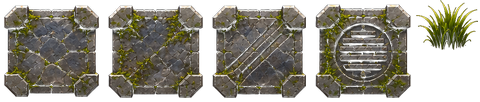
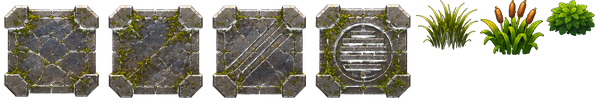
Swamp2: add TASK-001 v4 tufts 07 (cattails) and 08 (leafy)
Claude-Session: https://claude.ai/code/session_013R86rVRDV7uvtfdFLL6VJw

diff --git a/sw.js b/sw.js
@@ -1,6 +1,6 @@
-/* «Две базы» offline cache, version 2026.11.08-1321. A new version of this file makes phones fetch the new game;
+/* «Две базы» offline cache, version 2026.11.08-1355. A new version of this file makes phones fetch the new game;
    files whose content didn't change are copied from the old cache instead of downloaded again. */
-const V='dvebazy-2026.11.08-1321',H={"base_blue.webp": "3fa30d2184", "base_red.webp": "7dbdedfcd1", "crater.webp": "f8f526da4a", "crystal.webp": "3a4d69ffd7", "crystal_empty.webp": "e0bfd176b7", "desert.mp3": "4e820be7a4", "field_empty.webp": "1a89de323f", "field_full.webp": "5ce65390f6", "forest.mp3": "4d73b83bec", "hq_blue.webp": "9fd8e7e807", "hq_red.webp": "971d8873b5", "hv_e_blue.webp": "0fb54e58f2", "hv_e_red.webp": "dadb0cb8e0", "hv_f_blue.webp": "0eaca5d65e", "hv_f_red.webp": "1a6f973922", "intro.mp3": "d06e8482e9", "lost.mp3": "640926f4fa", "nuke.webp": "3bd289d94c", "ref_blue.webp": "55d23168b2", "ref_red.webp": "3c357584ff", "rocket.webp": "071c1a603f", "titan.mp3": "74a7fba796", "titan_hull_blue.webp": "b95fc02d02", "titan_hull_red.webp": "bc3479a55e", "titan_tur_blue.webp": "3a694cdb51", "titan_tur_red.webp": "4c836f3f95", "tw_can_blue.webp": "39c2cdb5df", "tw_can_red.webp": "11768d7b6d", "tw_mg_blue.webp": "f2a7462850", "tw_mg_red.webp": "b13edf318a", "tw_rkt_blue.webp": "890841b140", "tw_rkt_red.webp": "1cd20dd65c", "tw_tes_blue.webp": "f8dbac1346", "tw_tes_red.webp": "35dace5877", "victory.mp3": "86da21c965", "wave.webp": "02e3191a09", "winter.mp3": "c049c90e71", "voice_balist1.mp3": "a809bffd15", "voice_batk1.mp3": "bc1cce2b93", "voice_bomb1.mp3": "3e85b9b9dc", "voice_first1.mp3": "5d89f62894", "voice_first2.mp3": "6f591c10d3", "voice_first3.mp3": "de270f2917", "voice_first4.mp3": "52d929dd20", "voice_first5.mp3": "475b1aa197", "voice_first6.mp3": "d2ce90c984", "voice_first7.mp3": "222510fe73", "voice_hvdie1.mp3": "c1c6b9d714", "voice_loh1.mp3": "21e001d1e4", "voice_loh10.mp3": "41e66ff026", "voice_loh2.mp3": "e7da3dd047", "voice_loh3.mp3": "5cc145f5da", "voice_loh4.mp3": "58b7b9dbe7", "voice_loh5.mp3": "1426e425ce", "voice_loh6.mp3": "2053d0fb8a", "voice_loh7.mp3": "b546dc0fcb", "voice_loh8.mp3": "373d27d207", "voice_loh9.mp3": "ee76b7cbbf", "voice_lose1.mp3": "0965212c4d", "voice_lose2.mp3": "0272edf688", "voice_lose3.mp3": "fcb16aa0a5", "voice_lose4.mp3": "f4663fb4e3", "voice_lose5.mp3": "606ac4c1cf", "voice_lose6.mp3": "83a1fe1747", "voice_mazor1.mp3": "0a2f8341b5", "voice_mazor2.mp3": "2d0ef74267", "voice_mine2.mp3": "5ebf9d3ec6", "voice_mset1.mp3": "a35afbeb82", "voice_mvz1.mp3": "77e6ee09e0", "voice_mvz2.mp3": "fb090a12ca", "voice_nkb1.mp3": "52d38c9324", "voice_nkb2.mp3": "01c40b5760", "voice_nkb3.mp3": "39fe27bdf7", "voice_nkb4.mp3": "64aef97f88", "voice_nkb5.mp3": "4d31a020df", "voice_nkb6.mp3": "789a890588", "voice_nuke2.mp3": "8ca89b5589", "voice_ogon1.mp3": "c9d67acb12", "voice_orud1.mp3": "3026d1e2ee", "voice_rzap1.mp3": "2e0d131a35", "voice_vrag1.mp3": "028cb3b269", "voice_vrag2.mp3": "2e10b723e9", "voice_vrag3.mp3": "6079f5e810", "voice_vrag4.mp3": "8f7fa0ef37", "voice_vrag5.mp3": "e94b070c67", "voice_vrag6.mp3": "cb9915cce8", "voice_vrag7.mp3": "7ed2c5a974", "voice_vrag8.mp3": "48edfe60b2", "voice_vrag9.mp3": "8b0f4d86ee", "voice_win1.mp3": "f3f0a603b5", "voice_win2.mp3": "12950c5326", "voice_win3.mp3": "62d5e009ec", "voice_win4.mp3": "c6f262900b", "voice_win5.mp3": "63d2a5f9c8", "voice_bomb2.mp3": "2a7dccab6b", "voice_bomb3.mp3": "9939c42554", "voice_bomb4.mp3": "ae8e689c51", "voice_bomb5.mp3": "a8e38dbf99", "voice_bomb6.mp3": "5ad7691213", "voice_bomb7.mp3": "68265021c3", "voice_mset2.mp3": "e2e92e7433", "voice_mset3.mp3": "a9811a1536", "voice_mset4.mp3": "8173956a14", "voice_tout1.mp3": "e36d93eff4", "voice_tout2.mp3": "32e7428350", "voice_tout3.mp3": "9fca62bcdf", "voice_tout4.mp3": "3e314749bc", "voice_tout5.mp3": "5fcc940e4d", "voice_tout6.mp3": "fac430fb0f", "voice_tout7.mp3": "979fea3bea", "voice_tout8.mp3": "01a95c5d7b", "voice_tout9.mp3": "6bfcb1b4f9", "voice_etout1.mp3": "43c1b6aaf3", "voice_etout2.mp3": "bd5d728dc7", "voice_etout3.mp3": "9fd5dfc497", "voice_etout4.mp3": "781294a546", "voice_etout5.mp3": "d430e427bc", "voice_orud2.mp3": "aa9e1b81be", "voice_orud3.mp3": "705171a146", "voice_orud4.mp3": "238aca5997", "voice_orud5.mp3": "339952603c", "voice_tlow1.mp3": "785ec7eec0", "voice_tlow2.mp3": "96d601ac89", "voice_tlow3.mp3": "74a22eaaeb", "voice_tlow4.mp3": "fe8e1de87d", "voice_tlow5.mp3": "3cc923bbde", "voice_tlow6.mp3": "4c544afc32", "voice_tlow7.mp3": "32148d5608", "voice_tlow8.mp3": "aa26e23409", "voice_tlow9.mp3": "3085b4d856", "sw2_grass.webp": "e9c2de9e29", "sw2_mud.webp": "e61855352f", "sw2_water.webp": "98d60ba496", "sw2_atlas.webp": "427607d22b", "sw2_atlas2.webp": "8e1c286c2d", "sw2_pads.webp": "ce7bd1a9a7", "manifest.webmanifest": "d76adf5df4", "icon-192.png": "3f01f503e0", "icon-512.png": "ea3305bba6", "icon-180.png": "5713f46e1f"};
+const V='dvebazy-2026.11.08-1355',H={"base_blue.webp": "3fa30d2184", "base_red.webp": "7dbdedfcd1", "crater.webp": "f8f526da4a", "crystal.webp": "3a4d69ffd7", "crystal_empty.webp": "e0bfd176b7", "desert.mp3": "4e820be7a4", "field_empty.webp": "1a89de323f", "field_full.webp": "5ce65390f6", "forest.mp3": "4d73b83bec", "hq_blue.webp": "9fd8e7e807", "hq_red.webp": "971d8873b5", "hv_e_blue.webp": "0fb54e58f2", "hv_e_red.webp": "dadb0cb8e0", "hv_f_blue.webp": "0eaca5d65e", "hv_f_red.webp": "1a6f973922", "intro.mp3": "d06e8482e9", "lost.mp3": "640926f4fa", "nuke.webp": "3bd289d94c", "ref_blue.webp": "55d23168b2", "ref_red.webp": "3c357584ff", "rocket.webp": "071c1a603f", "titan.mp3": "74a7fba796", "titan_hull_blue.webp": "b95fc02d02", "titan_hull_red.webp": "bc3479a55e", "titan_tur_blue.webp": "3a694cdb51", "titan_tur_red.webp": "4c836f3f95", "tw_can_blue.webp": "39c2cdb5df", "tw_can_red.webp": "11768d7b6d", "tw_mg_blue.webp": "f2a7462850", "tw_mg_red.webp": "b13edf318a", "tw_rkt_blue.webp": "890841b140", "tw_rkt_red.webp": "1cd20dd65c", "tw_tes_blue.webp": "f8dbac1346", "tw_tes_red.webp": "35dace5877", "victory.mp3": "86da21c965", "wave.webp": "02e3191a09", "winter.mp3": "c049c90e71", "voice_balist1.mp3": "a809bffd15", "voice_batk1.mp3": "bc1cce2b93", "voice_bomb1.mp3": "3e85b9b9dc", "voice_first1.mp3": "5d89f62894", "voice_first2.mp3": "6f591c10d3", "voice_first3.mp3": "de270f2917", "voice_first4.mp3": "52d929dd20", "voice_first5.mp3": "475b1aa197", "voice_first6.mp3": "d2ce90c984", "voice_first7.mp3": "222510fe73", "voice_hvdie1.mp3": "c1c6b9d714", "voice_loh1.mp3": "21e001d1e4", "voice_loh10.mp3": "41e66ff026", "voice_loh2.mp3": "e7da3dd047", "voice_loh3.mp3": "5cc145f5da", "voice_loh4.mp3": "58b7b9dbe7", "voice_loh5.mp3": "1426e425ce", "voice_loh6.mp3": "2053d0fb8a", "voice_loh7.mp3": "b546dc0fcb", "voice_loh8.mp3": "373d27d207", "voice_loh9.mp3": "ee76b7cbbf", "voice_lose1.mp3": "0965212c4d", "voice_lose2.mp3": "0272edf688", "voice_lose3.mp3": "fcb16aa0a5", "voice_lose4.mp3": "f4663fb4e3", "voice_lose5.mp3": "606ac4c1cf", "voice_lose6.mp3": "83a1fe1747", "voice_mazor1.mp3": "0a2f8341b5", "voice_mazor2.mp3": "2d0ef74267", "voice_mine2.mp3": "5ebf9d3ec6", "voice_mset1.mp3": "a35afbeb82", "voice_mvz1.mp3": "77e6ee09e0", "voice_mvz2.mp3": "fb090a12ca", "voice_nkb1.mp3": "52d38c9324", "voice_nkb2.mp3": "01c40b5760", "voice_nkb3.mp3": "39fe27bdf7", "voice_nkb4.mp3": "64aef97f88", "voice_nkb5.mp3": "4d31a020df", "voice_nkb6.mp3": "789a890588", "voice_nuke2.mp3": "8ca89b5589", "voice_ogon1.mp3": "c9d67acb12", "voice_orud1.mp3": "3026d1e2ee", "voice_rzap1.mp3": "2e0d131a35", "voice_vrag1.mp3": "028cb3b269", "voice_vrag2.mp3": "2e10b723e9", "voice_vrag3.mp3": "6079f5e810", "voice_vrag4.mp3": "8f7fa0ef37", "voice_vrag5.mp3": "e94b070c67", "voice_vrag6.mp3": "cb9915cce8", "voice_vrag7.mp3": "7ed2c5a974", "voice_vrag8.mp3": "48edfe60b2", "voice_vrag9.mp3": "8b0f4d86ee", "voice_win1.mp3": "f3f0a603b5", "voice_win2.mp3": "12950c5326", "voice_win3.mp3": "62d5e009ec", "voice_win4.mp3": "c6f262900b", "voice_win5.mp3": "63d2a5f9c8", "voice_bomb2.mp3": "2a7dccab6b", "voice_bomb3.mp3": "9939c42554", "voice_bomb4.mp3": "ae8e689c51", "voice_bomb5.mp3": "a8e38dbf99", "voice_bomb6.mp3": "5ad7691213", "voice_bomb7.mp3": "68265021c3", "voice_mset2.mp3": "e2e92e7433", "voice_mset3.mp3": "a9811a1536", "voice_mset4.mp3": "8173956a14", "voice_tout1.mp3": "e36d93eff4", "voice_tout2.mp3": "32e7428350", "voice_tout3.mp3": "9fca62bcdf", "voice_tout4.mp3": "3e314749bc", "voice_tout5.mp3": "5fcc940e4d", "voice_tout6.mp3": "fac430fb0f", "voice_tout7.mp3": "979fea3bea", "voice_tout8.mp3": "01a95c5d7b", "voice_tout9.mp3": "6bfcb1b4f9", "voice_etout1.mp3": "43c1b6aaf3", "voice_etout2.mp3": "bd5d728dc7", "voice_etout3.mp3": "9fd5dfc497", "voice_etout4.mp3": "781294a546", "voice_etout5.mp3": "d430e427bc", "voice_orud2.mp3": "aa9e1b81be", "voice_orud3.mp3": "705171a146", "voice_orud4.mp3": "238aca5997", "voice_orud5.mp3": "339952603c", "voice_tlow1.mp3": "785ec7eec0", "voice_tlow2.mp3": "96d601ac89", "voice_tlow3.mp3": "74a22eaaeb", "voice_tlow4.mp3": "fe8e1de87d", "voice_tlow5.mp3": "3cc923bbde", "voice_tlow6.mp3": "4c544afc32", "voice_tlow7.mp3": "32148d5608", "voice_tlow8.mp3": "aa26e23409", "voice_tlow9.mp3": "3085b4d856", "sw2_grass.webp": "e9c2de9e29", "sw2_mud.webp": "e61855352f", "sw2_water.webp": "98d60ba496", "sw2_atlas.webp": "427607d22b", "sw2_atlas2.webp": "8e1c286c2d", "sw2_pads.webp": "1d18fc9a44", "manifest.webmanifest": "d76adf5df4", "icon-192.png": "3f01f503e0", "icon-512.png": "ea3305bba6", "icon-180.png": "5713f46e1f"};
 self.addEventListener('install',e=>{self.skipWaiting();e.waitUntil((async()=>{const c=await caches.open(V);let oldH={},old=null;
  for(const k of await caches.keys()){if(k===V)continue;const o=await caches.open(k);const r=await o.match('__hashes');if(r){try{oldH=await r.json();old=o;}catch(_){}}}
  await Promise.all(Object.keys(H).map(async f=>{try{if(old&&oldH[f]===H[f]){const r=await old.match(f);if(r){await c.put(f,r);return;}}await c.add(new Request(f,{cache:'reload'}));}catch(_){}}));

diff --git a/index.html b/index.html
@@ -1247,8 +1247,8 @@ GPAL.swamp2=Object.assign({},GPAL.swamp,{tex:1});
 let GP=GPAL.grass;
 /* «Болото 2» (test theme): painted textures and objects supplied by the player, placed by the same swamp code */
 const SW2={grass:new Image(),mud:new Image(),water:new Image(),atlas:new Image(),atlas2:new Image(),pads:new Image(),
- /* TASK-001 v2 (accepted): stone pads 01-04 (102px squares) and low tuft_01 */
- C:{"pad_01":[0,0,102,102],"pad_02":[104,0,102,102],"pad_03":[208,0,102,102],"pad_04":[312,0,102,102],"tuft_01":[416,0,62,50]},
+ /* TASK-001 v2 (accepted): stone pads 01-04 (102px squares) and low tuft_01; v4: tuft_07 (cattails), tuft_08 (leafy) */
+ C:{"pad_01":[0,0,102,102],"pad_02":[104,0,102,102],"pad_03":[208,0,102,102],"pad_04":[312,0,102,102],"tuft_01":[416,0,62,50],"tuft_07":[480,0,64,55],"tuft_08":[546,0,50,36]},
  /* second set (TASK-001 v1, accepted part): single lilies, flowers, duckweed, mushrooms, pebbles, low tufts; tuft_02/04 replaced by muted TASK-001 v3 recolours */
  B:{"lily_single_01":[0,0,46,34],"lily_single_02":[48,0,52,33],"lily_single_03":[102,0,46,33],"lily_single_04":[150,0,52,40],"lily_flower_01":[204,0,60,44],"lily_flower_02":[266,0,53,39],"duckweed_01":[321,0,84,58],"duckweed_02":[407,0,84,58],"duckweed_03":[0,60,84,60],"mushrooms_01":[86,60,52,40],"mushrooms_02":[140,60,52,42],"pebbles_01":[194,60,52,31],"pebbles_02":[248,60,52,37],"pebbles_03":[302,60,52,33],"tuft_02":[356,60,36,56],"tuft_04":[418,60,58,38]},
  A:{"reed1":[0,0,98,85],"reed2":[100,0,87,83],"reed3":[189,0,89,86],"lily1":[280,0,108,49],"lily2":[390,0,107,62],"lily3":[499,0,105,59],"lily4":[606,0,95,70],"log1":[703,0,149,70],"log2":[854,0,116,69],"branch":[0,88,137,67],"root1":[139,88,134,78],"root2":[275,88,191,89],"stump1":[468,88,119,79],"stump2":[589,88,104,81],"stump3":[695,88,110,80],"rock1":[807,88,94,65],"rock2":[903,88,82,51],"rock3":[0,179,75,56],"rock4":[77,179,139,85],"grass1":[218,179,94,75],"grass2":[314,179,87,76],"grass3":[403,179,91,76],"fern":[496,179,99,72],"bush1":[597,179,88,68],"bush2":[687,179,83,70],"bush3":[772,179,80,72],"bush4":[854,179,101,73]}};
@@ -1390,8 +1390,8 @@ function sw2Decor(b,x,y,sx,cx,cy,rd){const F=()=>rnd()<0.5,LS=['lily_single_01',
   else if(sx<0.65)spr(b,SW2R(['lily_flower_01','lily_flower_02']),x,y,16+rnd()*4,F());
   else if(sx<0.75)spr(b,SW2R(['lily1','lily2','lily3','lily4']),x,y,24+rnd()*8,F());
   else if(sx<0.88)spr(b,SW2R(['reed1','reed2','reed3']),x,y-6,32+rnd()*8,F());return;}
- if(inPool(x,y,8)){if(sx<0.55)spr(b,SW2R(['reed1','reed2','reed3','grass2']),x,y-6,32+rnd()*10,F());else if(sx<0.8)spr(b,SW2R(['tuft_01','tuft_02','tuft_04']),x,y-3,15+rnd()*5,F());else spr(b,SW2R(['pebbles_01','pebbles_02','pebbles_03']),x,y,13+rnd()*4,F());return;}
- if(rd<60){const k=rnd();if(k<0.3)spr(b,SW2R(['pebbles_01','pebbles_02','pebbles_03']),x,y,12+rnd()*4,F());else if(k<0.6)spr(b,SW2R(['tuft_01','tuft_02','tuft_04']),x,y,14+rnd()*5,F());else if(k<0.72)spr(b,SW2R(['grass1','grass3','fern']),x,y,18+rnd()*6,F());return;}
+ if(inPool(x,y,8)){if(sx<0.55)spr(b,SW2R(['reed1','reed2','reed3','grass2']),x,y-6,32+rnd()*10,F());else if(sx<0.8)spr(b,SW2R(['tuft_01','tuft_02','tuft_04','tuft_07','tuft_08']),x,y-3,15+rnd()*5,F());else spr(b,SW2R(['pebbles_01','pebbles_02','pebbles_03']),x,y,13+rnd()*4,F());return;}
+ if(rd<60){const k=rnd();if(k<0.3)spr(b,SW2R(['pebbles_01','pebbles_02','pebbles_03']),x,y,12+rnd()*4,F());else if(k<0.6)spr(b,SW2R(['tuft_01','tuft_02','tuft_04','tuft_07','tuft_08']),x,y,14+rnd()*5,F());else if(k<0.72)spr(b,SW2R(['grass1','grass3','fern']),x,y,18+rnd()*6,F());return;}
  if(sx<0.2)spr(b,SW2R(['reed1','reed2','reed3','grass2']),x,y-6,34+rnd()*8,F());
  else if(sx<0.27){spr(b,SW2R(['log1','log2']),x,y,46+rnd()*10,F());if(rnd()<0.5)spr(b,SW2R(['mushrooms_01','mushrooms_02']),x+(rnd()-0.5)*30,y+10,13+rnd()*3,F());}
  else if(sx<0.32)spr(b,SW2R(['branch','root1','root2']),x,y,48+rnd()*14,F());
@@ -1401,7 +1401,7 @@ function sw2Decor(b,x,y,sx,cx,cy,rd){const F=()=>rnd()<0.5,LS=['lily_single_01',
  else if(sx<0.62)spr(b,SW2R(['mushrooms_01','mushrooms_02']),x,y,13+rnd()*4,F());
  else if(sx<0.70)spr(b,SW2R(['pebbles_01','pebbles_02','pebbles_03']),x,y,14+rnd()*4,F());
  else if(sx<0.84)spr(b,SW2R(['grass1','grass3','fern']),x,y-3,22+rnd()*7,F());
- else{spr(b,SW2R(['tuft_01','tuft_02','tuft_04']),x,y,15+rnd()*5,F());if(rnd()<0.5)spr(b,SW2R(['tuft_01','tuft_02','tuft_04']),x+10,y+6,13+rnd()*4,F());}}
+ else{spr(b,SW2R(['tuft_01','tuft_02','tuft_04','tuft_07','tuft_08']),x,y,15+rnd()*5,F());if(rnd()<0.5)spr(b,SW2R(['tuft_01','tuft_02','tuft_04','tuft_07','tuft_08']),x+10,y+6,13+rnd()*4,F());}}
 function paintBg(){const bg=document.createElement('canvas');bg.width=Math.round(VW*DPR);bg.height=Math.round(VH*DPR);const b=bg.getContext('2d');b.scale(DPR,DPR);seed=11;
  if(MAP.theme==='lava')return paintLava(bg,b);const snow=MAP.theme==='snow',sand=MAP.theme==='sand',BY=BRIDGE_Y;GP=GPAL[MAP.theme]||GPAL.grass;
  if(sand){b.fillStyle='#E2C084';b.fillRect(0,0,VW,VH);
@@ -2703,9 +2703,9 @@ window.__dbg={get W(){return W},simStep,doCmd,botThink,packSnap,onSnap,setCode:c
 requestAnimationFrame(frame);
 </script>
 
-<div id="appVer">v2026.11.08-1321</div>
+<div id="appVer">v2026.11.08-1355</div>
 <script>
-window.APP_VERSION='2026.11.08-1321';
+window.APP_VERSION='2026.11.08-1355';
 /* the version label only on the lobby screen */
 setInterval(()=>{const l=document.getElementById('lobby'),v=document.getElementById('appVer');if(l&&v)v.style.display=l.hidden?'none':'';},500);
 if('serviceWorker' in navigator){let reloaded=false;
